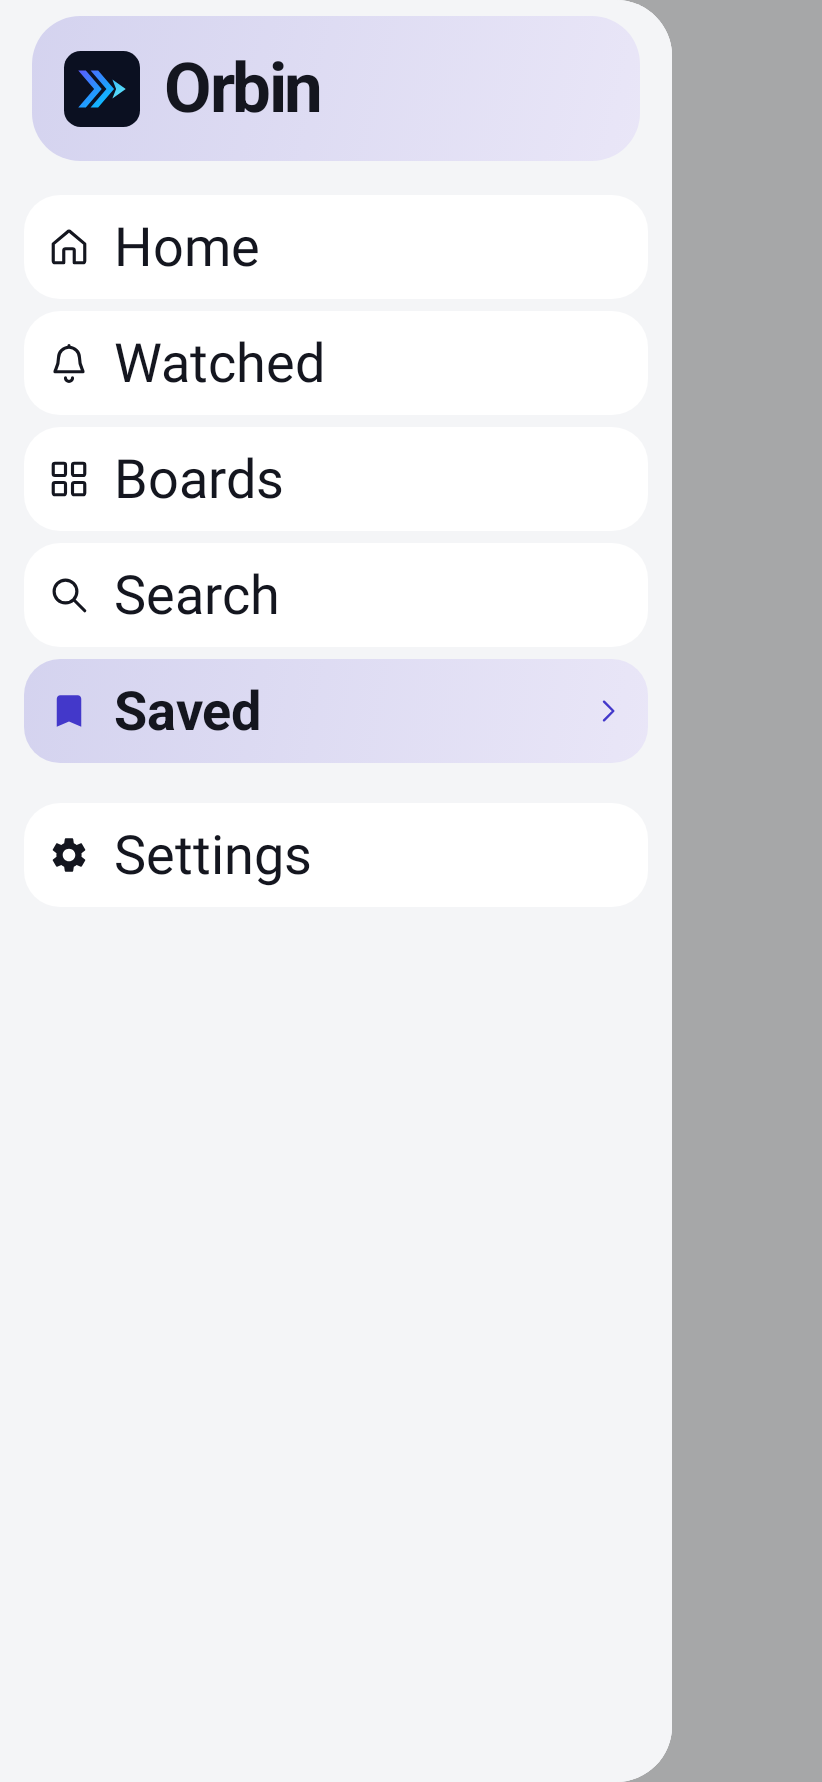
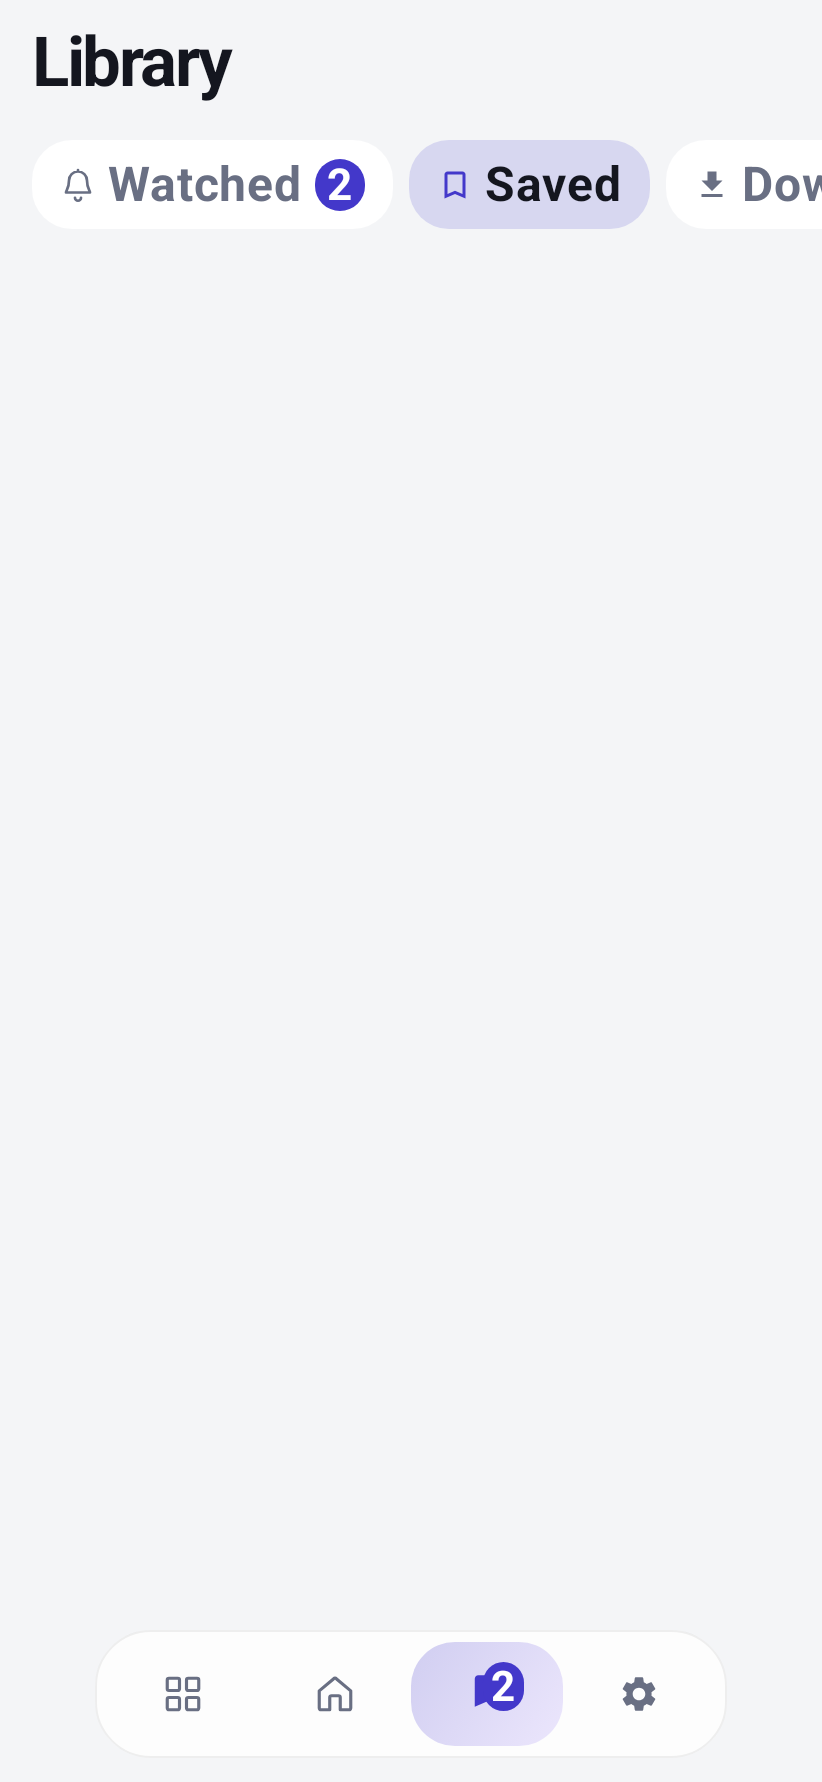
Screenshots: navigation max text shows Library with the bottom bar

diff --git a/ui-next/src/androidHostTest/kotlin/com/orbin/uinext/ProposalScreenshotTest.kt b/ui-next/src/androidHostTest/kotlin/com/orbin/uinext/ProposalScreenshotTest.kt
@@ -5,11 +5,10 @@ import androidx.compose.foundation.layout.padding
 import androidx.compose.foundation.layout.size
 import androidx.compose.material3.Surface
 import androidx.compose.runtime.Composable
+import androidx.compose.runtime.CompositionLocalProvider
 import androidx.compose.ui.Modifier
 import androidx.compose.ui.test.junit4.v2.createComposeRule
-import androidx.compose.ui.test.onNodeWithContentDescription
 import androidx.compose.ui.test.onRoot
-import androidx.compose.ui.test.performClick
 import androidx.compose.ui.unit.dp
 import com.github.takahirom.roborazzi.captureRoboImage
 import org.junit.Rule
@@ -246,12 +245,14 @@ class ProposalScreenshotTest {
 
     @Test
     fun navigationMaxText() =
-        capture(
-            "next_navigation_max_text",
-            fontScale = MAX_FONT_SCALE,
-            beforeCapture = { composeRule.onNodeWithContentDescription("Menu").performClick() },
-        ) {
-            ReaderScaffold(title = "Saved", destination = NextDestination.SAVED, onDestination = {}) {}
+        capture("next_navigation_max_text", fontScale = MAX_FONT_SCALE) {
+            // Library at max text: section tabs above the bottom bar, no drawer.
+            CompositionLocalProvider(
+                LocalLibraryNavigation provides
+                    LibraryNavigation(onSelect = {}, onPrimary = {}, watchedBadge = 2),
+            ) {
+                ReaderScaffold(title = "Saved", destination = NextDestination.SAVED, onDestination = {}) {}
+            }
         }
 
     /** The list at rest: every row closed. */
